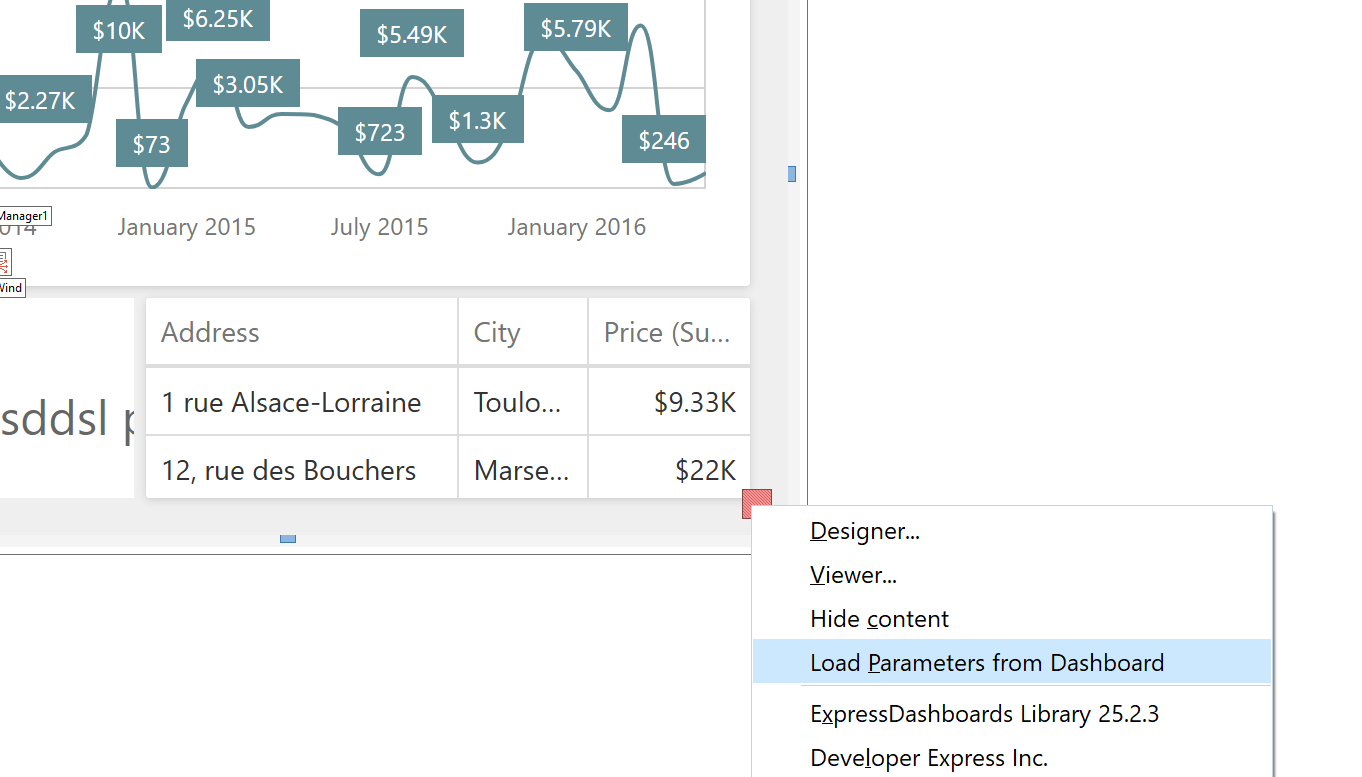
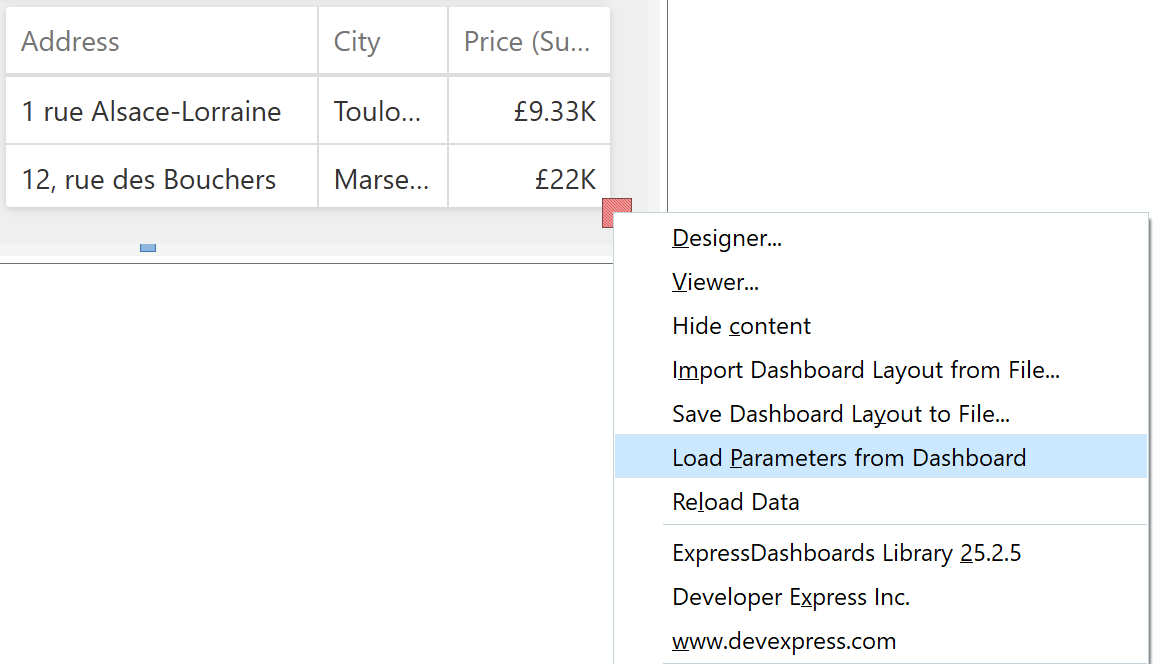
readme: Update with 25.2.5 changes, refactor the content
- Replace `LoadParametersFromDashboard` with `Parameters.LoadFromLayout`
- Remove the ApplyParametersToState call
  (see previous commits for `delphi` and `cpp-builder`)
- Add code snippets in C++
- Use numbered lists with step-by-step instructions
- Refactor links
- Update the screenshots of the Dashboard context menu.

diff --git a/README.md b/README.md
@@ -5,69 +5,144 @@
 [![](https://img.shields.io/badge/💬_Leave_Feedback-feecdd?style=flat-square)](#does-this-example-address-your-development-requirementsobjectives)
 <!-- default badges end -->
 
-# DevExpress VCL Dashboards — Pass a Hidden Dashboard Parameter to a SQL Query
+# DevExpress Dashboards for Delphi/C++Builder — Pass a Hidden Dashboard Parameter to a SQL Query
 
-This example demonstrates a dashboard that displays sales data for a selected country. The selected country is passed to the underlying SQL query as a hidden [dashboard parameter](https://docs.devexpress.com/Dashboard/117062/web-dashboard/create-dashboards-on-the-web/data-analysis/dashboard-parameters). This sample solution uses the [TdxCustomDashboardControl.Parameters](https://docs.devexpress.com/VCL/dxDashboard.Control.TdxCustomDashboardControl.Parameters) property to access and modify the target dashboard parameter.
+This example demonstrates a dashboard that displays sales data for a selected country.
+The selected country is passed to the underlying SQL query as a hidden [dashboard parameter][dashboard-parameters].
+This sample solution uses the [TdxCustomDashboardControl.Parameters][Parameters] property
+to access and modify the target dashboard parameter.
 
 ## Prerequisites
 
-See: [DevExpress Dashboards Prerequisites](https://docs.devexpress.com/VCL/405773/ExpressCrossPlatformLibrary/vcl-backend/reports-dashboards-app-deployment#vcl-reportsdashboards-prerequisites)
+[DevExpress Reports Prerequisites][req]
+
+[req]: https://docs.devexpress.com/VCL/405773/ExpressCrossPlatformLibrary/vcl-backend/reports-dashboards-app-deployment#vcl-reportsdashboards-prerequisites
 
 ## Implementation Details
 
-### Create a Dashboard Parameter
+The scenario demonstrated in this project relies on a configured dashboard layout shipped with sample source code.
 
-Open the DevExpress [Dashboard Designer](https://docs.devexpress.com/Dashboard/116518/basic-concepts-and-terminology/dashboard-designer#web-dashboard---designer-mode) (select the **Designer…** item from the [TdxDashboardControl](https://docs.devexpress.com/VCL/dxDashboard.Control.TdxDashboardControl) component's context menu at design time or call the [ShowDesigner](https://docs.devexpress.com/VCL/dxDashboard.Control.TdxCustomDashboardControl.ShowDesigner) method in code).
+Follow these steps to add a hidden parameter to a dashboard and use the parameter in a SQL query:
 
-![DevExpress VCL Dashboards - Open the Designer Dialog](/Images/vcl-dashboard-open-designer.png)
+1. [Create a Dashboard Parameter](#step-1-create-a-dashboard-parameter)
+2. [Create a SQL Query](#step-2-create-a-query)
+3. [Bind a Query Parameter to a Dashboard Parameter](#step-3-bind-a-query-parameter-to-a-dashboard-parameter)
+4. [Load Parameters From Layout](#step-4-load-parameters-from-layout)
+5. [Assign Parameter Values](#step-5-assign-parameter-values)
 
-Open the [dashboard menu](https://docs.devexpress.com/Dashboard/117444) and click **Parameters**. Create a parameter and configure its settings within the **PARAMETERS** pane. Uncheck the [Visible](https://docs.devexpress.com/Dashboard/js-DevExpress.Dashboard.Model.Parameter#js_devexpress_dashboard_model_parameter_parametervisible) check box to hide the parameter in Dashboard Viewer mode. This sample project creates a hidden parameter named **CountryDashboardParameter** and sets `France` as the default value:
+### Step 1: Create a Dashboard Parameter
 
-![DevExpress VCL Dashboards - Add and Configure a Parameter](/Images/vcl-dashboard-parameters-pane.png)
+1.  Open the DevExpress [Dashboard Designer][designer]
+    (select the **Designer…** item from the [TdxDashboardControl] component's context menu at design time
+    or call the [ShowDesigner] method in code).
 
-### Create a Query
+    > ![DevExpress VCL Dashboards — Open the Designer Dialog](/Images/vcl-dashboard-open-designer.png)
+2.  Open the [dashboard menu](https://docs.devexpress.com/Dashboard/117444) and click **Parameters**.
+3.  Create a parameter and configure its settings within the **PARAMETERS** pane.
+4.  Uncheck the [Visible][visible-cb] check box to hide the parameter in Dashboard Viewer mode.
 
-1. Select **Data Sources** in the dashboard menu.
-2. Click **Add** within the **DATA SOURCES** pane to display the **Add Data Source** dialog.
-3. Click **Create data source…** to run the [Dashboard Data Source Wizard](https://docs.devexpress.com/Dashboard/117680/web-dashboard/ui-elements-and-customization/dialogs-and-wizards/dashboard-data-source-wizard).
-4. Create a new query as follows:
+[visible-cb]: https://docs.devexpress.com/Dashboard/js-DevExpress.Dashboard.Model.Parameter#js_devexpress_dashboard_model_parameter_parametervisible
 
-![DevExpress VCL Dashboards - Use the Query Builder Dialog](/Images/vcl-dashboard-query-builder-steps.gif)
+This sample project creates a hidden parameter named `CountryDashboardParameter` and sets `France` as the default value:
 
-### Bind a Query Parameter to a Dashboard Parameter
+> ![DevExpress VCL Dashboards — Add and Configure a Parameter](/Images/vcl-dashboard-parameters-pane.png)
 
-1. Create a new filter within the **QUERY PROPERTIES** section.
-2. Add a new query parameter named **CountryParameter**.
-3. Expand the **PARAMETERS** section.
-4. Switch parameter type to `Expression` for **CountryParameter**.
-5. Set the parameter value to `CountryDashboardParameter`.
+### Step 2: Create a Query
 
-![DevExpress VCL Dashboards - Use the Filter Builder Dialog](/Images/vcl-dashboard-filter-editor.gif)
+1.  Select **Data Sources** in the dashboard menu.
+2.  Click **Add** within the **DATA SOURCES** pane to display the **Add Data Source** dialog.
+3.  Click **Create data source…** to run the [Dashboard Data Source Wizard][data-source-wizard].
+4.  Create a new query as follows:
 
-### Modify the Default Parameter Value in Code
+    > ![DevExpress VCL Dashboards — Use the Query Builder Dialog](/Images/vcl-dashboard-query-builder-steps.gif)
 
-The [TdxDashboardControl.Parameters](https://docs.devexpress.com/VCL/dxDashboard.Control.TdxCustomDashboardControl.Parameters) collection is initially empty. To populate the collection with parameters from a dashboard layout definition, you can call the [LoadParametersFromDashboard](https://docs.devexpress.com/VCL/dxDashboard.Control.TdxCustomDashboardControl.LoadParametersFromDashboard) procedure at runtime. Alternatively, you can select **Load Parameters from Dashboard** from the [TdxDashboardControl](https://docs.devexpress.com/VCL/dxDashboard.Control.TdxDashboardControl) context menu at design time:
+### Step 3: Bind a Query Parameter to a Dashboard Parameter
 
-![DevExpress VCL Dashboards - Load Dashboard Parameters at Design Time](/Images/vcl-dashboard-load-parameters.png)
+1.  Create a new filter within the **QUERY PROPERTIES** section.
+2.  Add a new query parameter named **CountryParameter**.
+3.  Expand the **PARAMETERS** section.
+4.  Switch parameter type to `Expression` for **CountryParameter**.
+5.  Set the parameter value to `CountryDashboardParameter`.
 
-#### Use the Populated Collection
+    > ![DevExpress VCL Dashboards — Use the Filter Builder Dialog](/Images/vcl-dashboard-filter-editor.gif)
 
+### Step 4: Load Parameters From Layout
+
+The [Parameters] collection is initially empty.
+You need to populate the collection at design- or runtime on demand.
+
+#### Populate Parameters at Runtime
+
+To populate the collection with parameters from a dashboard layout definition,
+call the [Parameters.LoadFromLayout] procedure at runtime.
+
+<!-- start-code-block -->
+##### Delphi
+```delphi
+dxDashboardControl1.Parameters.LoadFromLayout;
+```
+
+##### C++
+```c
+dxDashboardControl1->Parameters->LoadFromLayout();
+```
+<!-- end-code-block -->
+
+#### Populate Parameters at Design Time
+
+Select **Load Parameters from Dashboard** from the [TdxDashboardControl] context menu at design time:
+
+> ![DevExpress VCL Dashboards — Load Dashboard Parameters at Design Time](/Images/vcl-dashboard-load-parameters.png)
+
+#### Step 5: Assign Parameter Values
+
+To modify parameters in a dashboard, assign values to individual [Parameters] collection members as follows:
+
+<!-- start-code-block -->
+##### Delphi
 ```delphi
 procedure TMainForm.cbCountriesPropertiesEditValueChanged(Sender: TObject);
 begin
-  dxDashboardControl1.Parameters[`CountryDashboardParameter`].Value := cbCountries.EditValue;
-  dxDashboardControl1.ApplyParametersToState;
+  dxDashboardControl1.Parameters['CountryDashboardParameter'].Value := cbCountries.EditValue;
 end;
 ```
 
+##### C++
+```c
+void __fastcall TMainForm::cbCountriesPropertiesEditValueChanged(TObject *Sender)
+{
+  dxDashboardControl1->Parameters->ParamByName[L"CountryDashboardParameter"]->Value =
+      cbCountries->EditValue;
+}
+```
+<!-- end-code-block -->
+
+
 ## Documentation
 
-* [Introduction to DevExpress VCL Dashboards](https://docs.devexpress.com/VCL/405642/ExpressDashboards/vcl-dashboards)
-* [Use Query Parameters](https://docs.devexpress.com/Dashboard/117192/web-dashboard/create-dashboards-on-the-web/providing-data/working-with-sql-data-sources/use-query-parameters)
-* [Dashboard Parameters](https://docs.devexpress.com/Dashboard/117062/web-dashboard/create-dashboards-on-the-web/data-analysis/dashboard-parameters)
-* [DevExpress VCL Dashboards Prerequisites](https://docs.devexpress.com/VCL/405773/ExpressCrossPlatformLibrary/vcl-backend/reports-dashboards-app-deployment#vcl-reportsdashboards-prerequisites)
-* [TdxCustomDashboardControl.Parameters](https://docs.devexpress.com/VCL/dxDashboard.Control.TdxCustomDashboardControl.Parameters)
-* [TdxCustomDashboardControl.LoadParametersFromDashboard](https://docs.devexpress.com/VCL/dxDashboard.Control.TdxCustomDashboardControl.LoadParametersFromDashboard)
+-   [Introduction to DevExpress VCL Dashboards](https://docs.devexpress.com/VCL/405642/ExpressDashboards/vcl-dashboards)
+-   [Get Started: Create a Dashboard Using the Designer Dialog][designer-dialog]
+-   [Use Query Parameters](https://docs.devexpress.com/Dashboard/117192/web-dashboard/create-dashboards-on-the-web/providing-data/working-with-sql-data-sources/use-query-parameters)
+-   [Dashboard Parameters][dashboard-parameters]
+-   [DevExpress VCL Dashboards Prerequisites][req]
+-   API reference:
+    -   [TdxDashboardControl]
+    -   [TdxCustomDashboardControl.Parameters][Parameters]
+    -   [TdxCustomDashboardControl.Parameters.LoadFromLayout][Parameters.LoadFromLayout]
+    -   [TdxCustomDashboardControl.ShowDesigner][ShowDesigner]
+
+[designer]: https://docs.devexpress.com/Dashboard/116518/basic-concepts-and-terminology/dashboard-designer#web-dashboard---designer-mode
+[data-source-wizard]: https://docs.devexpress.com/Dashboard/117680/web-dashboard/ui-elements-and-customization/dialogs-and-wizards/dashboard-data-source-wizard
+[designer-dialog]: https://docs.devexpress.com/VCL/405774/ExpressDashboards/getting-started/create-dashboard-using-designer-dialog
+[dashboard-parameters]: https://docs.devexpress.com/Dashboard/117062/web-dashboard/create-dashboards-on-the-web/data-analysis/dashboard-parameters
+
+
+[TdxDashboardControl]: https://docs.devexpress.com/VCL/dxDashboard.Control.TdxDashboardControl
+[Parameters]: https://docs.devexpress.com/VCL/dxDashboard.Control.TdxCustomDashboardControl.Parameters
+[Parameters.LoadFromLayout]: https://docs.devexpress.com/VCL/dxDashboard.Control.TdxCustomDashboardControl.Parameters.LoadFromLayout
+
+[ShowDesigner]: https://docs.devexpress.com/VCL/dxDashboard.Control.TdxCustomDashboardControl.ShowDesigner
+
 
 <!-- feedback -->
 ## Does This Example Address Your Development Requirements/Objectives?
